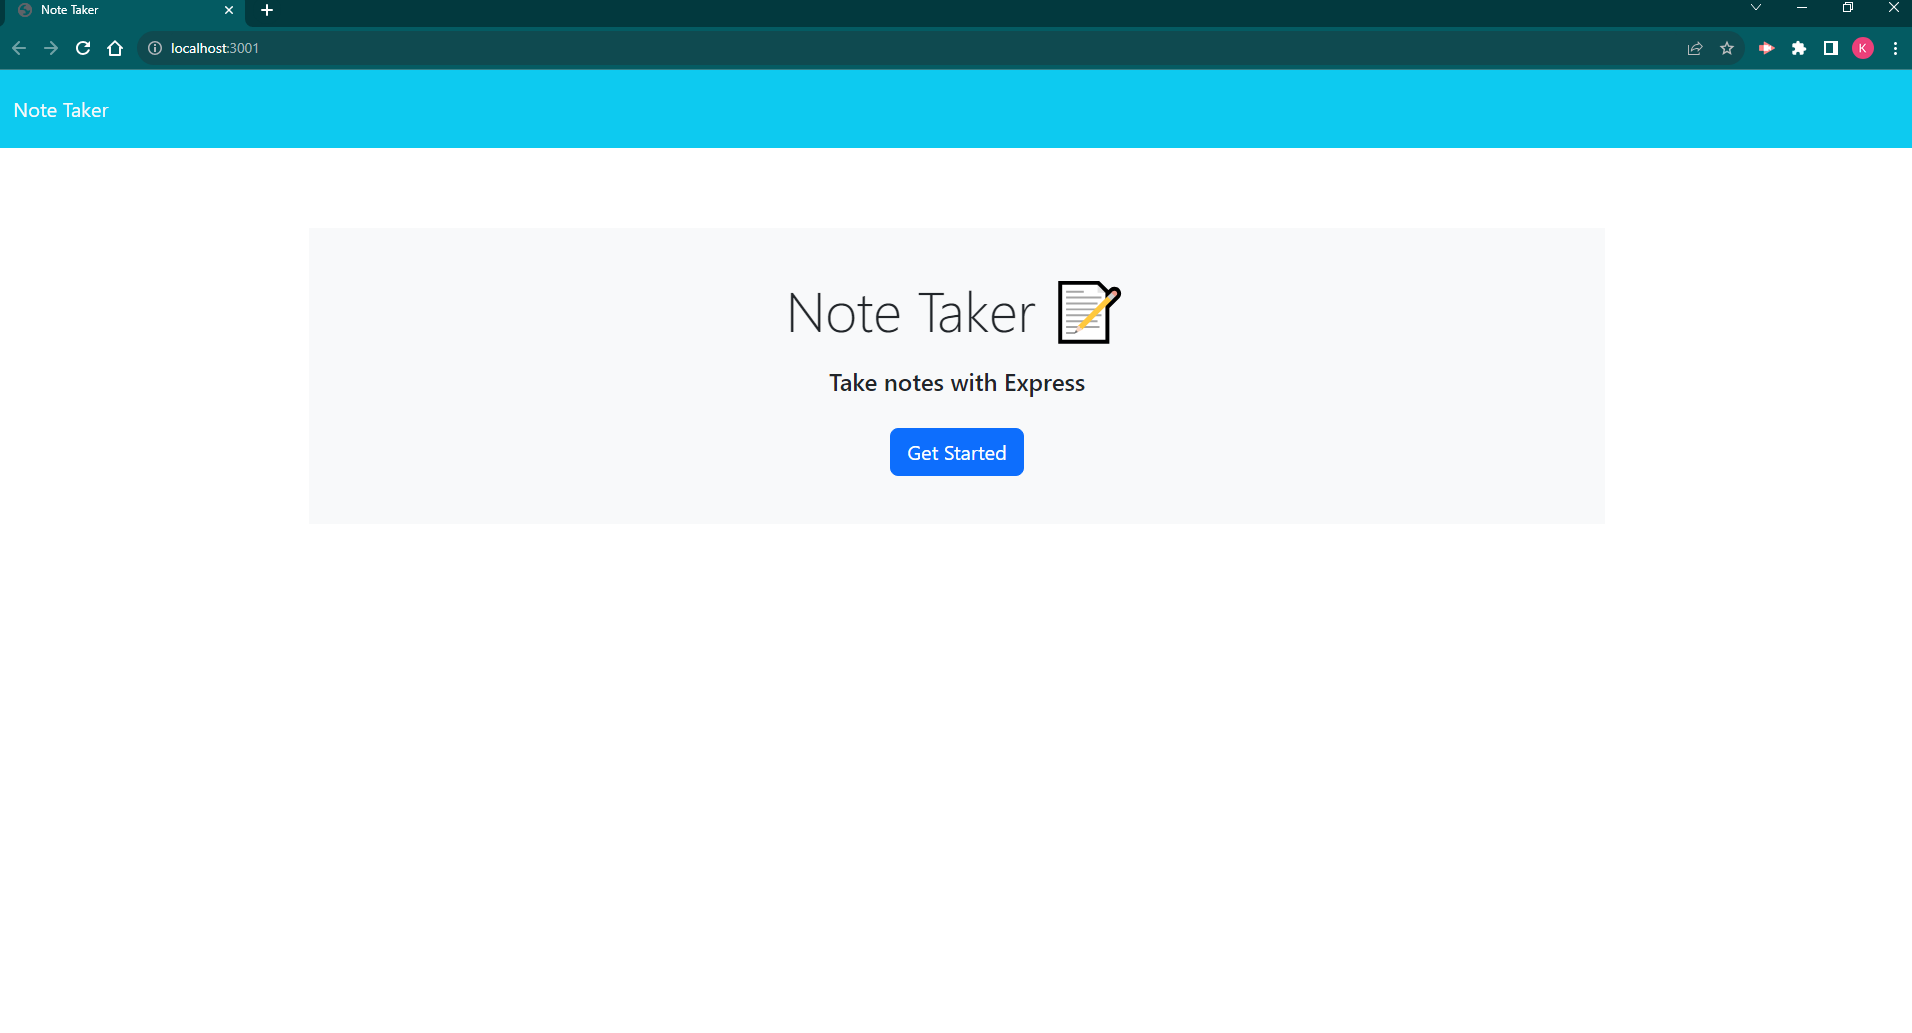
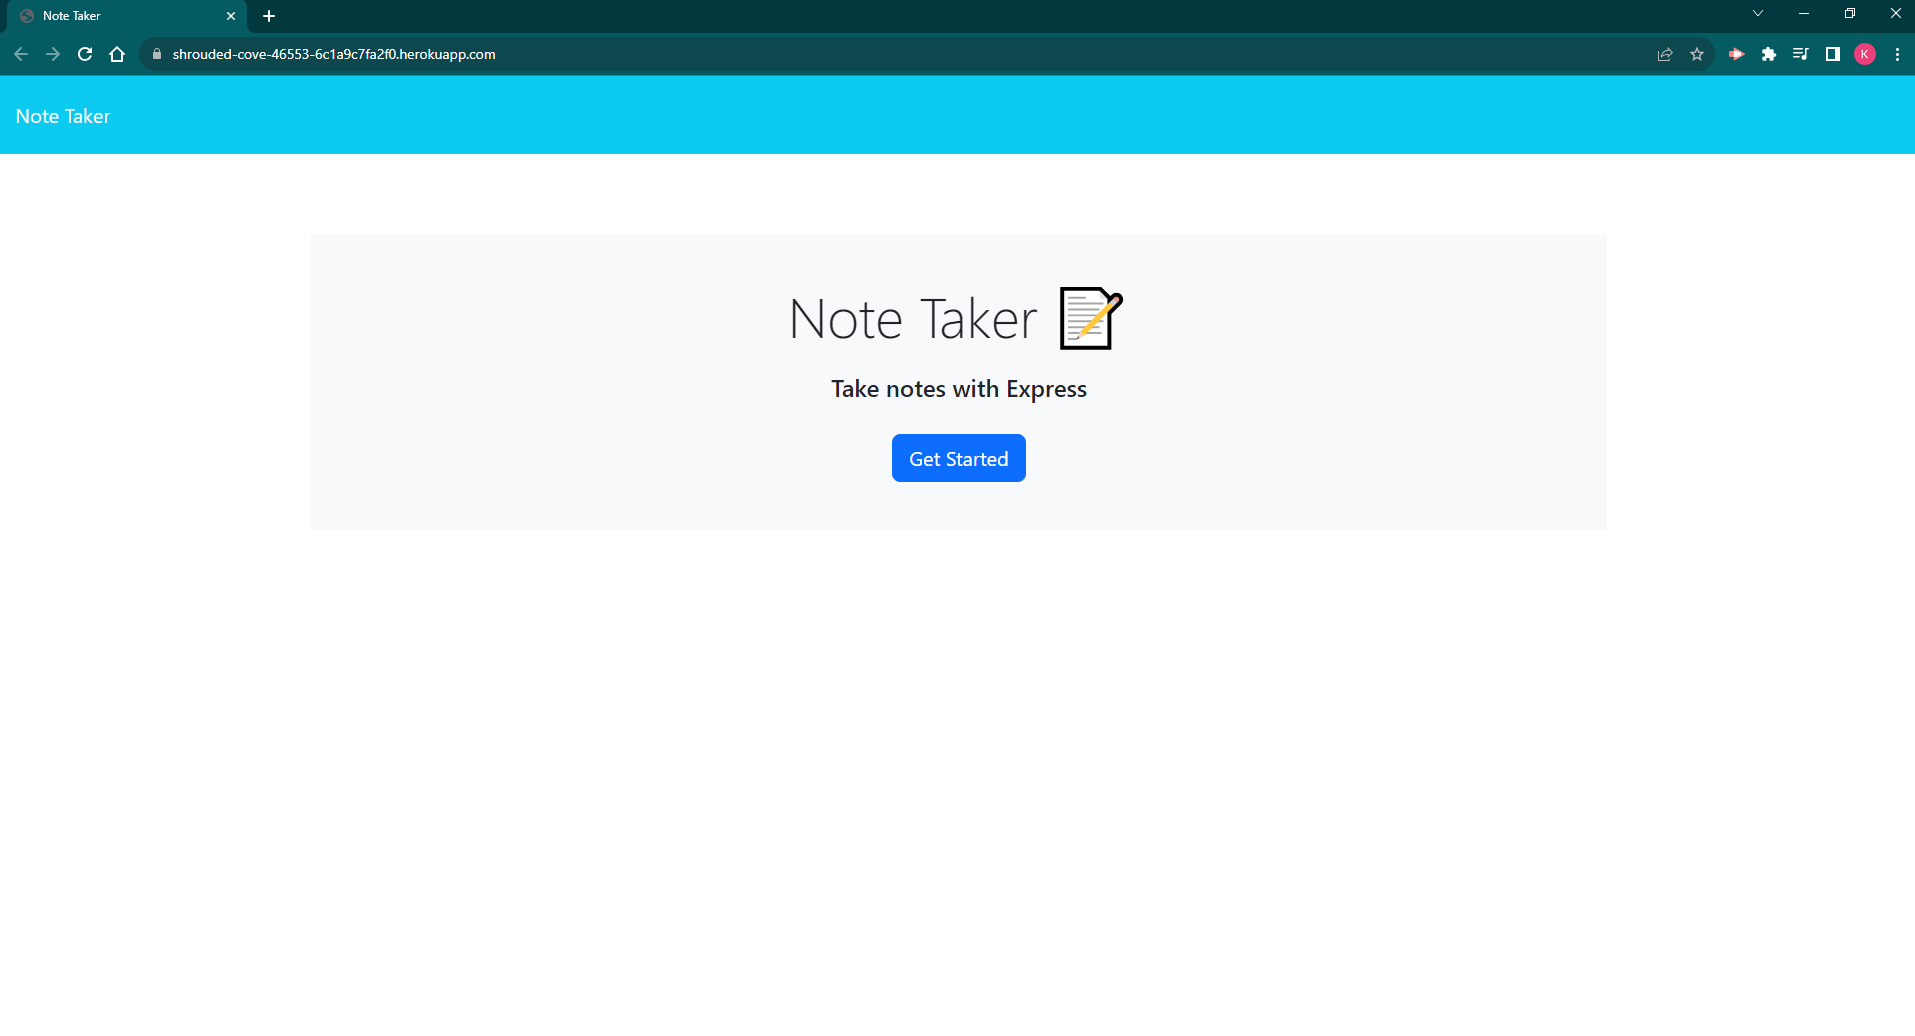
updated the readme with screen shots

Changed region(s): [[0.0, 0.0, 1.0, 0.1549], [0.4012, 0.2478, 0.5863, 0.4647]]

diff --git a/README.md b/README.md
@@ -6,7 +6,25 @@ This is a repository for a note-taker application that can be used to write and 
 
 ## Usage
 
-In order to use this application, you will need to follow the link to the deployed application [here]. Then, the user will need to click on the 'Get Started' button which will take them to the notes page. From here, the user can type in a 'Note Title' and body text for a note, which will then reveal a save icon in the navigation bar. Clicking the save icon will save the note title to the side. The user can then click on the note to reveal the body text or click on the 'Trash Can' icon to delete the note. On the backend side, each click is handling a fetch request and rerouting to the appropriate URL to respond with the correct data. For example, when the user clicks on the save icon then the server is handling a POST request from the localhost:3001/api/notes URL. At the same time, the server is handling a GET request to be able to display the note that was just created onto the page. 
+In order to use this application, you will need to follow the link to the deployed application [here](https://shrouded-cove-46553-6c1a9c7fa2f0.herokuapp.com/notes). Below you can see a screen shot of the landing page.
+
+![Alt text](assets/landing-page.PNG)
+
+Then, the user will need to click on the 'Get Started' button which will take them to the notes page. Below you can see a screenshot of the notes page.
+
+![Alt text](assets/notes-page.PNG)
+
+From here, the user can type in a 'Note Title' and body text for a note, which will then reveal a save icon in the navigation bar. Below you can see a screenshot of the save icon appearing 
+
+![Alt text](assets/save-icon.PNG)
+
+Clicking the save icon will save the note title to the side. The user can then click on the note to reveal the body text or click on the 'Trash Can' icon to delete the note. Below you can see a screenshot of the delete icon and a screenshot of what it looks like after hitting the delete icon. 
+
+![Alt text](assets/delete-icon.PNG)
+
+![Alt text](assets/after-delete-button.PNG)
+
+On the backend side, each click is handling a fetch request and rerouting to the appropriate URL to respond with the correct data. For example, when the user clicks on the save icon then the server is handling a POST request from the localhost:3001/api/notes URL. At the same time, the server is handling a GET request to be able to display the note that was just created onto the page. 
 
 ## License
 
